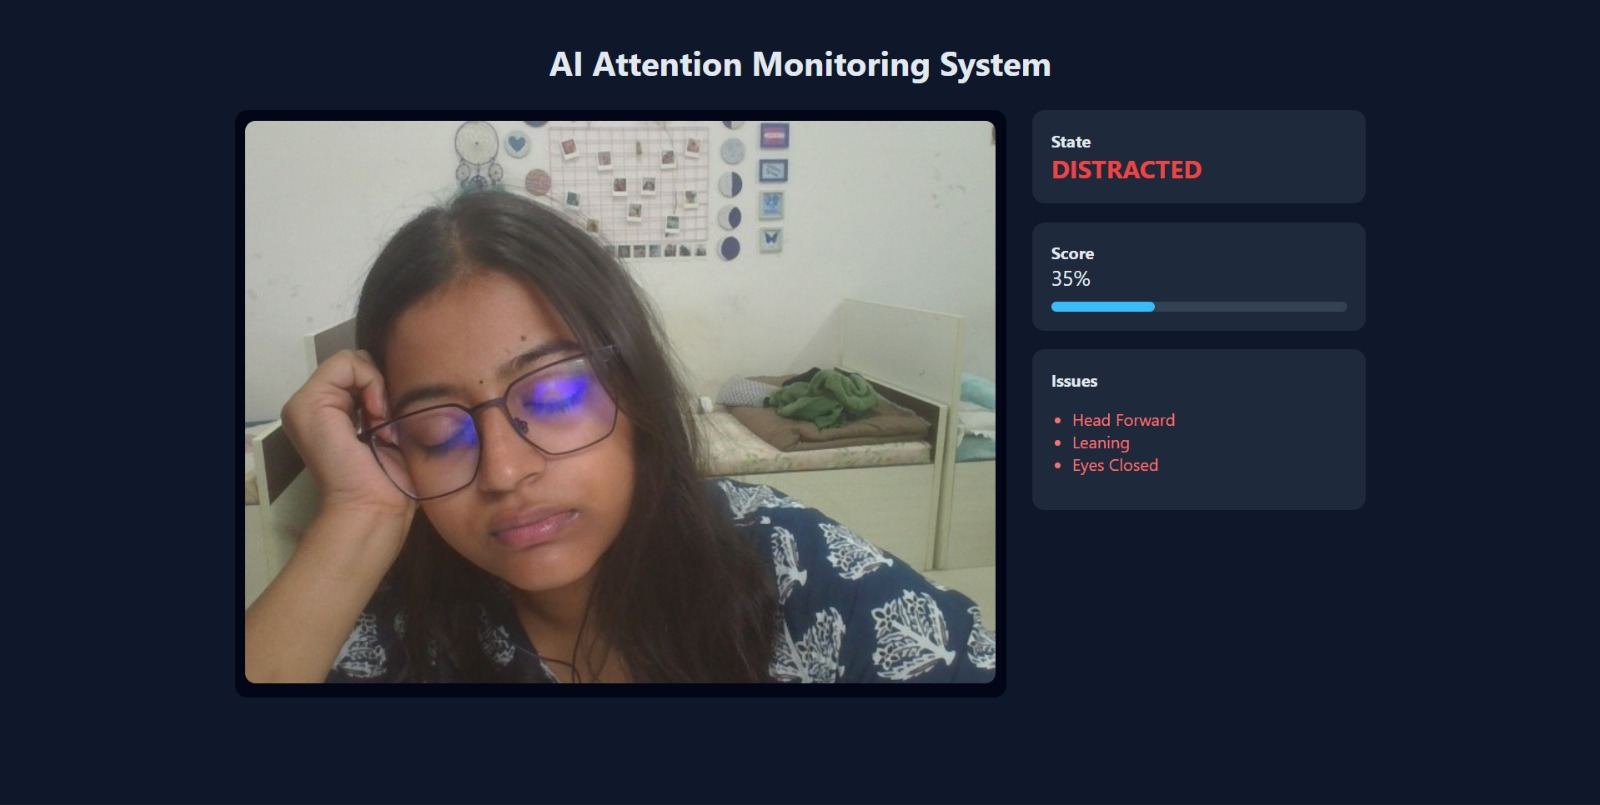
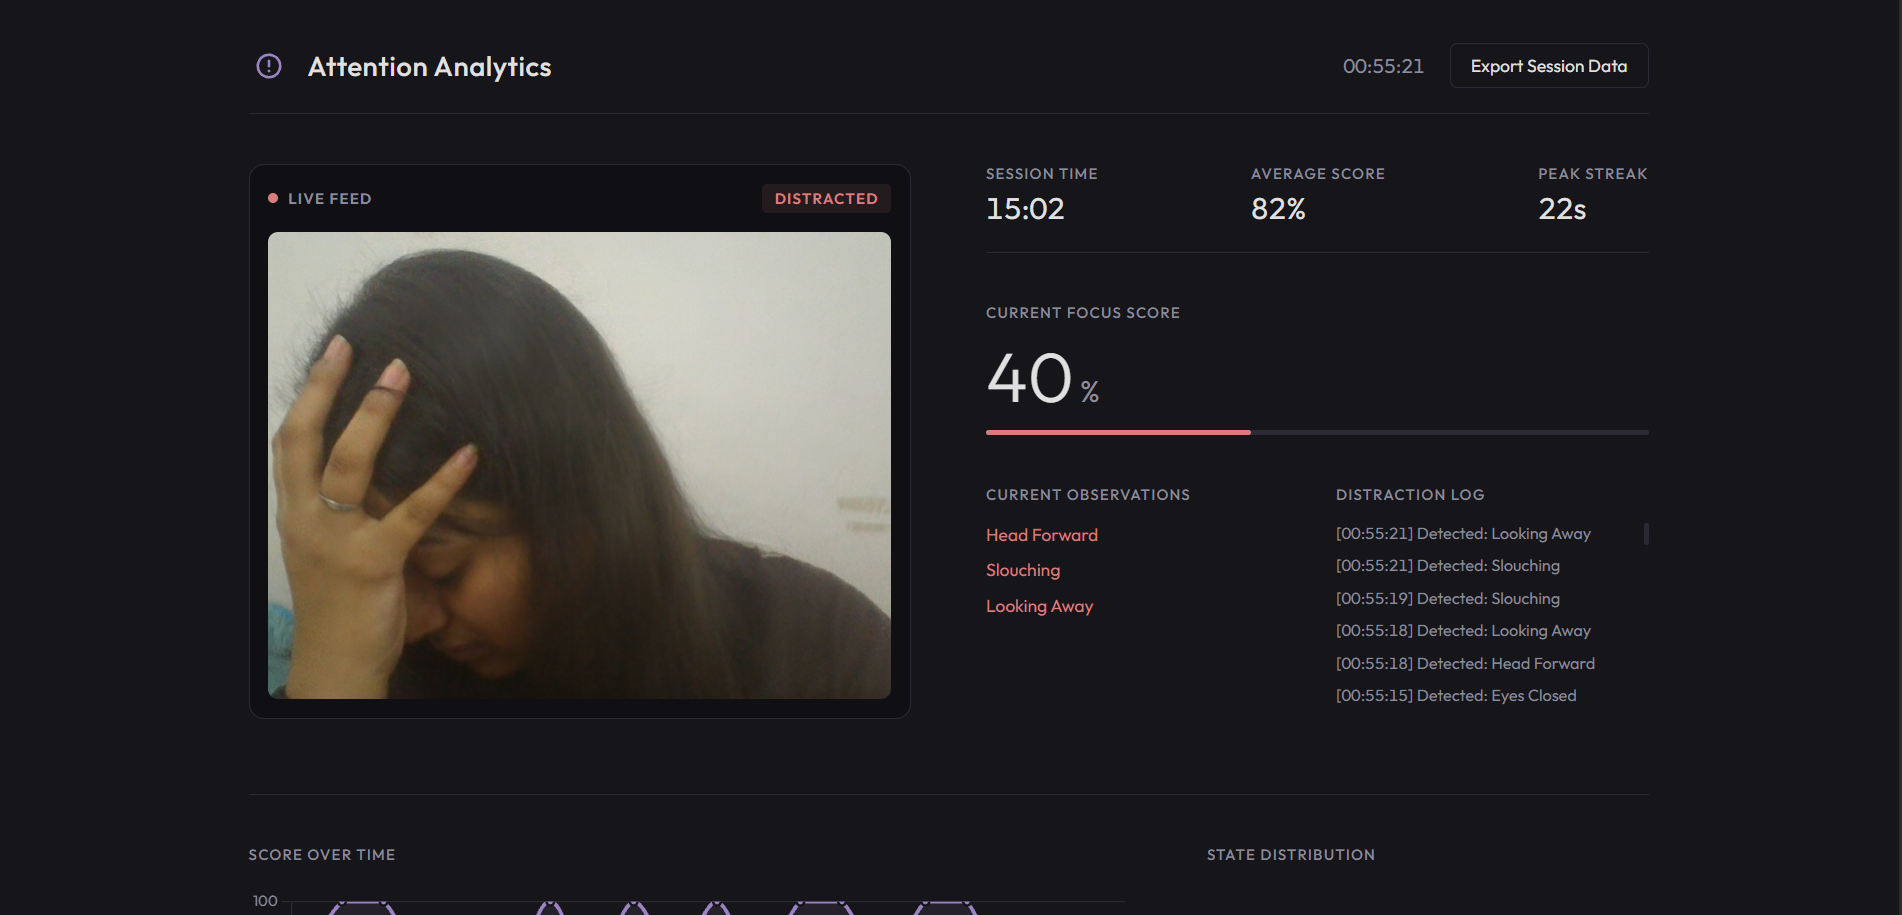
Update output screenshots and README based on image content

diff --git a/README.md b/README.md
@@ -96,9 +96,13 @@ Attention System/
 │   └── index.html
 ├── static/
 │   └── style.css
+├── outputs/
 │   ├── focused.png
+│   ├── attentive_eyes_closed.png
+│   ├── attentive_head_forward.png
 │   ├── distracted.png
-│   └── low_attention.png
+│   └── dashboard_stats.png
+├── requirements.txt
 └── README.md
 ```
 
@@ -119,15 +123,23 @@ Attention System/
 
 ### Focused State
 
-![Focused](focused.png)
+![Focused](outputs/focused.png)
+
+### Attentive State (Eyes Closed)
+
+![Attentive Eyes Closed](outputs/attentive_eyes_closed.png)
+
+### Attentive State (Head Forward)
+
+![Attentive Head Forward](outputs/attentive_head_forward.png)
 
 ### Distracted State
 
-![Distracted](distracted.png)
+![Distracted](outputs/distracted.png)
 
-### Low Attention State
+### Dashboard Statistics
 
-![Low Attention](low_attention.png)
+![Dashboard Analytics](outputs/dashboard_stats.png)
 
 ## Results
 
